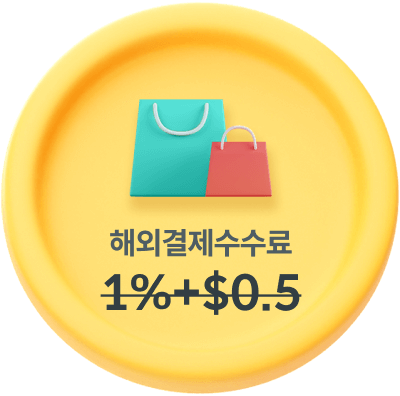
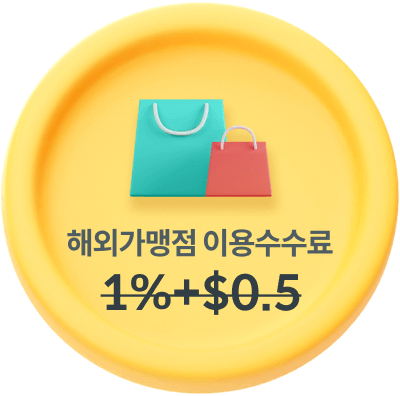
UTL_001

Changed region(s): [[0.15, 0.5758, 0.84, 0.6667]]

diff --git a/html/hmui/guide/globalPageList.html b/html/hmui/guide/globalPageList.html
@@ -114,7 +114,7 @@ var menuList = [
 
   {'group':'', 'code':'CHG','depth1':'외화 충전','name':'화폐 선택','pageid':'CHG_101', 'status':'완료', 'date':'22.04.25', 'remarks':'<span>-22.05.20 페이지로 변경</span>'},
   {'group':'', 'code':'CHG','depth1':'','name':'최대 보유 금액 초과 시','pageid':'CHG_103', 'status':'완료', 'date':'22.05.02', 'remarks':'<span>-22.05.20 문구변경</span>'},
-  {'group':'', 'code':'CHG','depth1':'','name':'외화 충전 정보 입력','pageid':'CHG_104', 'status':'완료', 'date':'22.05.02', 'remarks':''},
+  {'group':'', 'code':'CHG','depth1':'','name':'외화 충전 정보 입력','pageid':'CHG_104', 'status':'완료', 'date':'22.05.02', 'remarks':'<span>-22.05.20 컨펌레이어 추가</span>'},
   {'group':'', 'code':'CHG','depth1':'','name':'외화 충전 완료','pageid':'CHG_105', 'status':'완료', 'date':'22.05.02', 'remarks':''},
   {'group':'', 'code':'CHG','depth1':'','name':'부족한 계좌 자동충전 팝업','pageid':'CHG_106', 'status':'완료', 'date':'22.05.02', 'remarks':''},
 
@@ -125,7 +125,7 @@ var menuList = [
   {'group':'', 'code':'RTN','depth1':'','name':'하나머니로 환급 완료','pageid':'RTN_002_1', 'status':'완료', 'date':'22.05.20', 'remarks':''},
 
 
-  {'group':'', 'code':'SET','depth1':'하나머니 관리','name':'하나머니 관리','pageid':'SET_001', 'status':'완료', 'date':'22.05.02', 'remarks':''},
+  {'group':'', 'code':'SET','depth1':'하나머니 관리','name':'하나머니 관리','pageid':'SET_001', 'status':'완료', 'date':'22.05.02', 'remarks':'<span>-22.05.20 컨펌레이어 추가</span>'},
   {'group':'', 'code':'SET','depth1':'','name':'원화 자동 충전 설정','pageid':'SET_002', 'status':'완료', 'date':'22.05.02', 'remarks':''},
 
 
@@ -137,10 +137,10 @@ var menuList = [
   {'group':'글로벌', 'code':'GSP','depth1':'해외직구1','name':'해외직구 매뉴얼','pageid':'GSP_001', 'status':'완료', 'date':'22.05.16', 'remarks':'<span>-22.05.20 문구변경</span>'},
   {'group':'', 'code':'GSP','depth1':'','name':'해외직구 Glab 이동시 노출팝업','pageid':'GSP_003', 'status':'완료', 'date':'22.05.16', 'remarks':''},
   {'group':'', 'code':'GSP','depth1':'','name':'기존 해외직구라운지 페이지','pageid':'GSP_004', 'status':'완료', 'date':'22.05.16', 'remarks':''},
-  {'group':'', 'code':'GSP','depth1':'외화 하나머니 소개','name':'트래블로그 혜택 안내','pageid':'GSP_002', 'status':'확인중', 'date':'', 'remarks':''},
+  {'group':'', 'code':'GSP','depth1':'외화 하나머니 소개','name':'트래블로그 혜택 안내','pageid':'GSP_002', 'status':'완료', 'date':'22.05.20', 'remarks':''},
 
 
-  {'group':'Util', 'code':'UTL','depth1':'이용안내','name':'하나머니 이용안내','pageid':'UTL_001', 'status':'확인중', 'date':'', 'remarks':''},
+  {'group':'Util', 'code':'UTL','depth1':'이용안내','name':'하나머니 이용안내','pageid':'UTL_001', 'status':'완료', 'date':'22.05.20', 'remarks':''},
   {'group':'', 'code':'UTL','depth1':'전체메뉴','name':'전체메뉴','pageid':'UTL_101', 'status':'X', 'date':'', 'remarks':'Native'},
 
 

diff --git a/html/global/UTL/UTL_001.html b/html/global/UTL/UTL_001.html
@@ -91,14 +91,14 @@
           <div class="section_cont guide_hanamoney_3">
             <div class="wrap_tit">
               <p class="label_fill_white">트래블로그 서비스</p>
-              <h2 class="tit_section_center">오직 하나머니에서만<br><em>무료환전에 해외수수료 면제</em></h2>
-              <p class="txt_sub">국내 원화 결제 시 0.3% 적립</p>
+              <h2 class="tit_section_center">오직 하나머니에서만<br><em>무료환전에<br>해외 이용수수료 면제</em></h2>
+              <p class="txt_sub">국내 가맹점 결제 시 0.3% 하나머니 적립</p>
             </div>
             <div class="swiper-container utl_charge_swiper">
               <ul class="swiper-wrapper">
                 <li class="swiper-slide"><img src="../../../images/global/img_utl_charge_1.png" alt="환전수수료 1.75%"></li>
-                <li class="swiper-slide"><img src="../../../images/global/img_utl_charge_2.png" alt="해외출금수수료 1%+$3"></li>
-                <li class="swiper-slide"><img src="../../../images/global/img_utl_charge_3.png" alt="해외결제수수료 1%+$0.5"></li>
+                <li class="swiper-slide"><img src="../../../images/global/img_utl_charge_2.png" alt="해외가맹점 이용수수료 1%+$0.5"></li>
+                <li class="swiper-slide"><img src="../../../images/global/img_utl_charge_3.png" alt="해외ATM인출 수수료 1%+$3"></li>
               </ul>
             </div>
             <div class="wrap_btn type_full">

diff --git a/css/global/contents.css b/css/global/contents.css
@@ -1918,8 +1918,6 @@
   transform: translateY(-50%);
   perspective: 1200px;
 }
-
-
 .section_cont.guide_hanamoney_4 .utl_point_swiper .swiper-wrapper {
   -webkit-box-orient: vertical;
   -webkit-box-direction: normal;
@@ -1991,8 +1989,8 @@
   transform-style: preserve-3d;
 }
 .section_cont.guide_hanamoney_5.transform .visual_utl_remitt .flip_remitt {
-  -webkit-animation: filpHold180 6s ease-out infinite;
-  animation: filpHold180 6s ease-out infinite;
+  -webkit-animation: filpHold180 4s ease-out infinite;
+  animation: filpHold180 4s ease-out infinite;
 }
 .section_cont.guide_hanamoney_5 .visual_utl_remitt .flip_remitt::before,
 .section_cont.guide_hanamoney_5 .visual_utl_remitt .flip_remitt::after {

diff --git a/js/hmui/ui_common.js b/js/hmui/ui_common.js
@@ -906,7 +906,6 @@ var fnHanamoneyGuideControl = function() {
 
   // 수수료면제 swiper
   var chargeSwiper = new Swiper('.utl_charge_swiper', {
-    allowTouchMove: false,
     loop: true,
     centeredSlides: true,
     slidesPerView: 'auto',
